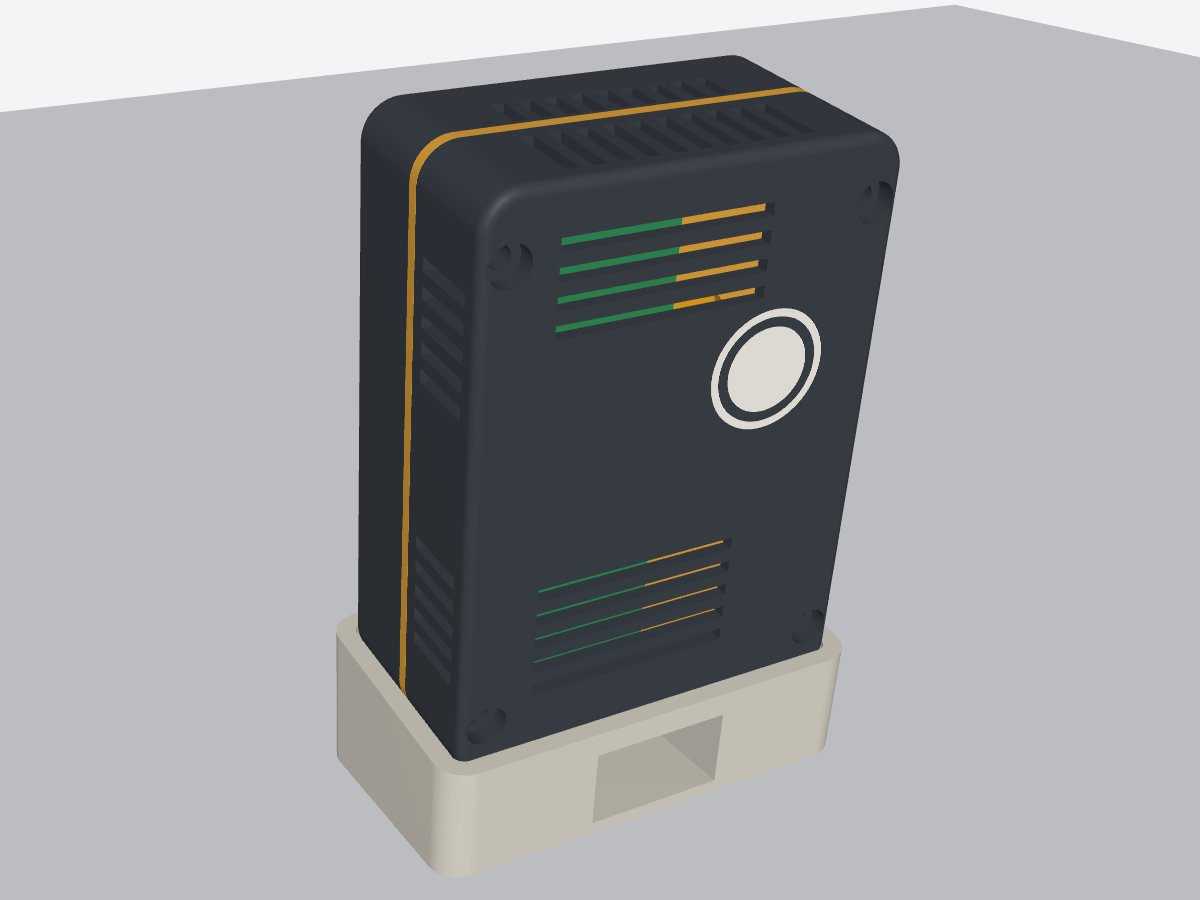
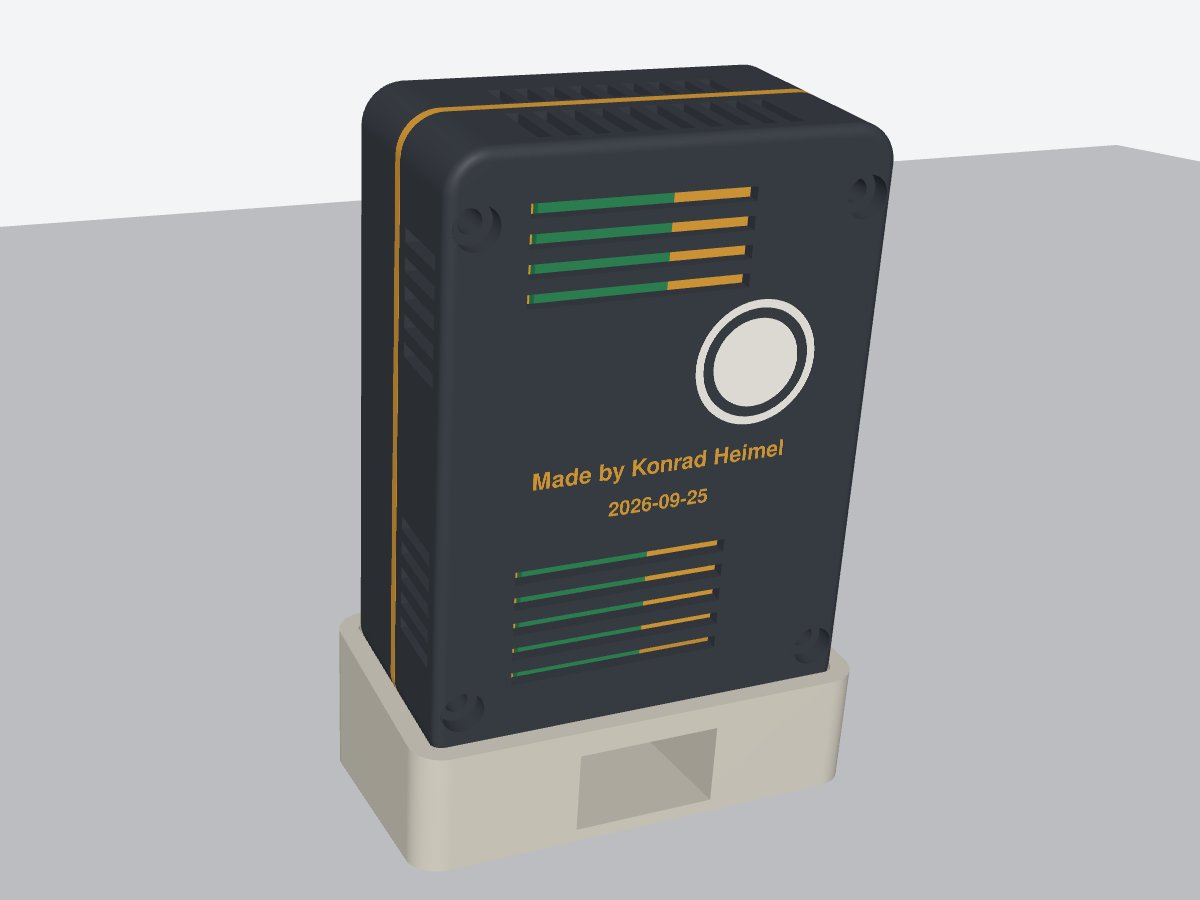
:sparkles: feat(enclosure): add AtmosMesh Aura wordmark and maker inlay
Front chin now reads "AtmosMesh Aura"; the back plate carries a
"Made by Konrad Heimel" and build-date inlay as a third colour part of
the rear 3MF. Print groups now drop onto the bed together so inlays
stay aligned with their body.

Claude-Session: https://claude.ai/code/session_0195y1fjVVtVEXvhgmZMQQcv

diff --git a/hardware/enclosure/aura-cyd/aura_case.py b/hardware/enclosure/aura-cyd/aura_case.py
@@ -32,6 +32,7 @@ from build123d import (
     Rectangle,
     RectangleRounded,
     Rot,
+    FontStyle,
     Text,
     export_step,
     export_stl,
@@ -79,6 +80,12 @@ M3_CLEAR = 3.4
 M3_HEAD_D, M3_HEAD_H = 6.2, 3.0
 M2_PILOT = 1.7
 SCREW_Z_INSET = 10.0  # case screws: distance from top/bottom outer faces
+
+# ----------------------------------------------------------------- lettering
+WORDMARK = "AtmosMesh Aura"  # front chin (product name, D-037)
+MAKER_LINE = "Made by Konrad Heimel"  # back plate
+DATE_LINE = "2026-09-25"
+INLAY_DEPTH = 0.6
 
 # ------------------------------------------------------------------ cradle
 TILT_DEG = 8.0  # lean back; 0 = bolt upright
@@ -207,7 +214,7 @@ def make_front():
 
 def make_front_inlay():
     """Accent ring around the window + wordmark, 0.6 mm deep in the front face."""
-    depth = 0.6
+    depth = INLAY_DEPTH
     ring_off = FRONT_T + 1.8
     ring = extrude(
         front_plane(depth) * Pos(CX, WIN_CZ) * RectangleRounded(
@@ -222,7 +229,7 @@ def make_front_inlay():
     )
     chin_top = WIN_CZ - WIN_L / 2 - ring_off - 1.2
     chin_mid = (SOCKET_H + chin_top) / 2
-    txt = Text("AURA", font_size=5.0, align=(Align.CENTER, Align.CENTER))
+    txt = Text(WORDMARK, font_size=4.2, font_style=FontStyle.BOLD, align=(Align.CENTER, Align.CENTER))
     word = extrude(front_plane(depth) * Pos(CX, chin_mid) * txt, amount=depth)
     return ring, word
 
@@ -278,6 +285,24 @@ def make_rear():
             body -= box(CX - 16 + PB_X_OFF, CX + 16 + PB_X_OFF, Y3 - 0.1, D + 0.1, z - 1, z + 1)
     # halo window pockets (filled by the translucent inlay)
     return body
+
+
+def back_plane(y: float) -> Plane:
+    """Sketch plane on the back face: reads correctly from behind, normal +Y."""
+    return Plane(origin=(0, y, 0), x_dir=(-1, 0, 0), z_dir=(0, 1, 0))
+
+
+def make_back_text():
+    """Maker line and date, inlaid in the back plate between lower grille and halo."""
+    d = INLAY_DEPTH
+    lines = ((MAKER_LINE, 3.4, 44.0), (DATE_LINE, 3.0, 38.5))
+    out = None
+    for text, size, z in lines:
+        t = Text(text, font_size=size, font_style=FontStyle.BOLD, align=(Align.CENTER, Align.CENTER))
+        # back_plane local x runs along -X, so the case centre is at local x = -CX
+        solid = extrude(back_plane(D - d) * Pos(-CX, z) * t, amount=d)
+        out = solid if out is None else out + solid
+    return out
 
 
 def make_halo():
@@ -385,6 +410,14 @@ def tilt(shape, h_back):
     return shape.rotate(Axis((0, y_back, -h_back), (1, 0, 0)), -TILT_DEG)
 
 
+PRINT_GROUPS = {
+    "aura_front.3mf": ("front_body", "front_accent_ring", "front_accent_text"),
+    "aura_rear.3mf": ("rear_body", "rear_halo_translucent", "rear_accent_text"),
+    "aura_baffle.3mf": ("baffle",),
+    "aura_cradle.3mf": ("cradle",),
+}
+
+
 def main():
     out = Path(__file__).parent / "out"
     out.mkdir(exist_ok=True)
@@ -395,7 +428,8 @@ def main():
     baffle = make_baffle()
     rear = make_rear()
     halo = make_halo()
-    rear = rear - halo
+    back_text = make_back_text()
+    rear = rear - halo - back_text
     cradle, h_back = make_cradle()
 
     parts = {
@@ -405,6 +439,7 @@ def main():
         "baffle": baffle,
         "rear_body": rear,
         "rear_halo_translucent": halo,
+        "rear_accent_text": back_text,
         "cradle": cradle,
     }
 
@@ -422,26 +457,18 @@ def main():
         "baffle": face_down * baffle,
         "rear_body": back_down * rear,
         "rear_halo_translucent": back_down * halo,
+        "rear_accent_text": back_down * back_text,
         "cradle": tilt(cradle, h_back),
     }
-    for name, p in printable.items():
-        bb = p.bounding_box()
-        printable[name] = Pos(0, 0, -bb.min.Z) * p
-    # keep multi-colour groups on a shared origin so they import as one object
-    for group in (("front_body", "front_accent_ring", "front_accent_text"),
-                  ("rear_body", "rear_halo_translucent")):
+    # drop each print group onto the bed together, so multi-colour parts stay aligned
+    for group in PRINT_GROUPS.values():
         z0 = min(printable[g].bounding_box().min.Z for g in group)
         for g in group:
             printable[g] = Pos(0, 0, -z0) * printable[g]
     for name, p in printable.items():
         export_stl(p, str(out / f"{name}.stl"), tolerance=0.02, angular_tolerance=0.15)
 
-    for fname, group in (
-        ("aura_front.3mf", ("front_body", "front_accent_ring", "front_accent_text")),
-        ("aura_rear.3mf", ("rear_body", "rear_halo_translucent")),
-        ("aura_baffle.3mf", ("baffle",)),
-        ("aura_cradle.3mf", ("cradle",)),
-    ):
+    for fname, group in PRINT_GROUPS.items():
         write_3mf(out / fname, {g: printable[g] for g in group})
 
     print(f"outer W x H x D = {W:.1f} x {H:.1f} x {D:.1f} mm, cradle back height {h_back:.1f} mm")

diff --git a/hardware/enclosure/aura-cyd/README.md b/hardware/enclosure/aura-cyd/README.md
@@ -29,9 +29,9 @@ The **baffle** between the two chambers blocks radiant heat from the board. Moun
 
 | File (in `out/`) | Print orientation | Notes |
 | --- | --- | --- |
-| `aura_front.3mf` | Front face on the bed (already oriented) | 3 parts: body, accent ring, "AURA" wordmark. The inlays are 0.6 mm deep, so colour changes only happen in the first 3 layers |
+| `aura_front.3mf` | Front face on the bed (already oriented) | 3 parts: body, accent ring, "AtmosMesh Aura" wordmark. The inlays are 0.6 mm deep, so colour changes only happen in the first 3 layers |
 | `aura_baffle.3mf` | Flat, standoffs up | Its 2 mm edge shows as an accent stripe at the seam, so print it in the accent colour |
-| `aura_rear.3mf` | Back face on the bed | 2 parts: body and the translucent "halo" window over the CYD's RGB LED |
+| `aura_rear.3mf` | Back face on the bed | 3 parts: body, the translucent "halo" window over the CYD's RGB LED, and the "Made by Konrad Heimel / 2026-09-25" inlay (accent colour, first 3 layers) |
 | `aura_cradle.3mf` | Ground face down | Plain single colour. U-shaped, so no supports are needed |
 
 `*.step` files are the same parts in assembled position (plus board stand-ins, for checking the fit
@@ -40,6 +40,7 @@ in any CAD tool). `*.stl` files are the individual bodies, in print orientation.
 **Bambu Studio (P2S + AMS).** Open each 3MF. It loads as one object with several parts. In the
 Objects list, give each part a filament. Suggested scheme: body in matte charcoal, ring, wordmark
 and baffle in amber/gold, halo in translucent or natural PETG/PLA, cradle in warm grey or wood PLA.
+The lettering is 3–4 mm tall, which a standard 0.4 mm nozzle handles. Print the first layer slowly so it stays crisp.
 Settings: 0.2 mm layers, 3 walls, 15 % gyroid infill, no supports. A textured PEI plate gives the
 front face a nice finish.
 
@@ -86,6 +87,13 @@ Each is a named constant at the top of `aura_case.py`.
 **Recommended first print:** in Bambu Studio, cut the front part 8 mm above the bed (Cut tool) and
 print only the lower piece. That takes about 20 minutes and checks the window, LDR hole, CYD bosses
 and USB opening before you commit to the full set.
+
+## Lettering
+
+Front chin: `WORDMARK`. Back plate: `MAKER_LINE` and `DATE_LINE`. All three are constants at the
+top of `aura_case.py`. The date is the build date, so change it when you print a new one.
+
+![back lettering](previews/back_lettering.jpg)
 
 ## Regenerate
 
